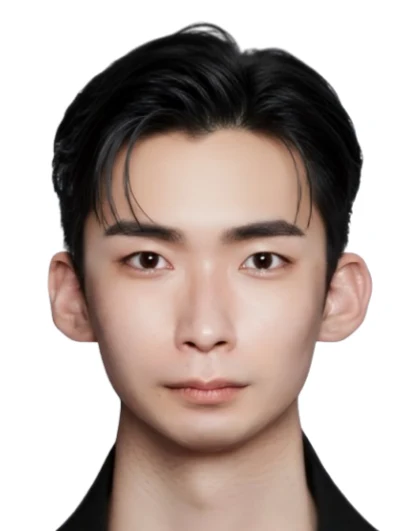
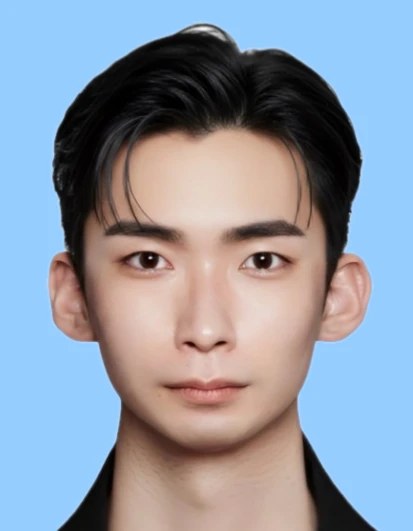
About: coin-flip profile, photo fits with blue background

diff --git a/src/components/screen/avatars.tsx b/src/components/screen/avatars.tsx
@@ -8,10 +8,10 @@ const GHOST = ['...gggggg...', '..gggggggg..', '.gggggggggg.', '.ggwkggwkgg.', '
 const ALIEN = ['.g........g.', '..g......g..', '..gggggggg..', '.gggggggggg.', '.gwwkggwwkg.', '.gwwkggwwkg.', '.gggggggggg.', '..gggddggg..', '...gggggg...', '....gggg....']
 
 const K = '#16171a', W = '#ffffff'
-type Entry = { name: string; bg: string; src?: string; pos?: string; rows: string[]; pal: Record<string, string> }
+type Entry = { name: string; bg: string; src?: string; fit?: 'cover' | 'contain'; rows: string[]; pal: Record<string, string> }
 export const AVATARS: Entry[] = [
-  { name: 'ME', bg: '#96cdff', src: img('me.webp'), pos: '50% 50%', rows: [] as string[], pal: {} as Record<string, string> },
-  { name: 'PHOTO', bg: '#ffffff', src: img('photo.webp'), pos: '50% 20%', rows: [] as string[], pal: {} as Record<string, string> },
+  { name: 'ME', bg: '#96cdff', src: img('me.webp'), rows: [] as string[], pal: {} as Record<string, string> },
+  { name: 'PHOTO', bg: '#96cdff', src: img('photo.webp'), fit: 'contain', rows: [] as string[], pal: {} as Record<string, string> },
   { name: 'BLOB', bg: '#ff9f43', rows: BLOB, pal: { b: '#1fb6e8', w: W, e: K, r: '#ff4b3e' } },
   { name: 'ROBOT', bg: '#3b6cff', rows: ROBOT, pal: { a: '#c4ccd6', b: '#6b7683', r: '#ff4b3e', w: W, k: K } },
   { name: 'CAT', bg: '#34c759', rows: CAT, pal: { o: '#ff9f43', p: '#ff6b8a', w: W, k: K } },
@@ -24,7 +24,7 @@ export function Avatar({ i, className = '' }: { i: number; className?: string })
   const a = AVATARS[i], n = a.rows[0]?.length ?? 0
   return (
     <span className={`relative inline-block shrink-0 overflow-hidden rounded-full ${className}`} style={{ background: a.bg }}>
-      {a.src ? <img src={a.src} alt={a.name} draggable={false} className="h-full w-full object-cover" style={{ objectPosition: a.pos }} /> : (
+      {a.src ? <img src={a.src} alt={a.name} draggable={false} className={`h-full w-full ${a.fit === 'contain' ? 'object-contain' : 'object-cover'}`} /> : (
         <svg viewBox={`0 0 ${n + 4} ${n + 4}`} shapeRendering="crispEdges" className="h-full w-full">
           {a.rows.map((row, r) => [...row].map((ch, c) => ch === '.' ? null :
             <rect key={`${r}-${c}`} x={c + 2} y={r + 2 + (n - a.rows.length) / 2} width="1.02" height="1.02" fill={a.pal[ch]} />))}

diff --git a/src/components/screen/Screens.tsx b/src/components/screen/Screens.tsx
@@ -93,9 +93,19 @@ function About({ s }: { s: State }) {
       <Title>ABOUT ME</Title>
       <div className="mb-4 flex items-center gap-6">
         <div className="shrink-0 text-center">
-          <Avatar i={s.avatar} className="h-[112px] w-[112px] ring-4 ring-white" />
+          {/* click = flip like a coin between the cartoon (0) and the ID photo (1) */}
+          <div style={{ perspective: 500 }}>
+            <AnimatePresence mode="wait" initial={false}>
+              <motion.button key={s.avatar} type="button" aria-label="프로필 뒤집기" onClick={() => pick(s.avatar === 0 ? 1 : 0)}
+                initial={{ rotateY: -90 }} animate={{ rotateY: 0 }} exit={{ rotateY: 90 }} transition={{ duration: 0.2, ease: 'easeInOut' }}
+                className="block cursor-pointer rounded-full">
+                <Avatar i={s.avatar} className="h-[112px] w-[112px] ring-4 ring-white" />
+              </motion.button>
+            </AnimatePresence>
+          </div>
           <div className="mt-1.5 text-[12px] font-extrabold">{profile.name}</div>
           <div className="text-[10px] text-ink-sub">{profile.role}</div>
+          <div className="mx-auto mt-1 max-w-[130px] [word-break:keep-all] text-[10px] font-bold leading-tight text-accent-blue">↻ 프로필을 눌러보세요 · 동전처럼 뒤집혀요</div>
         </div>
         <div className="min-w-0 flex-1">
           <div className="label mb-2">Edit character · {AVATARS[s.avatar].name}</div>
